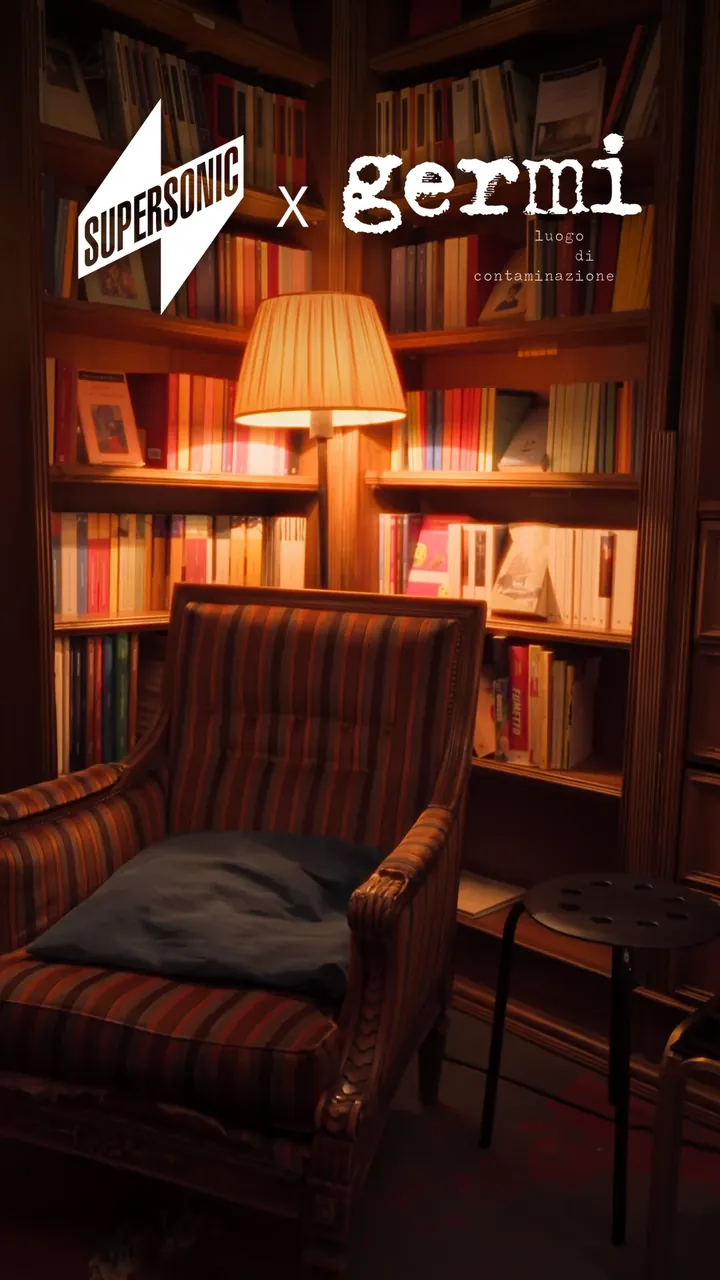
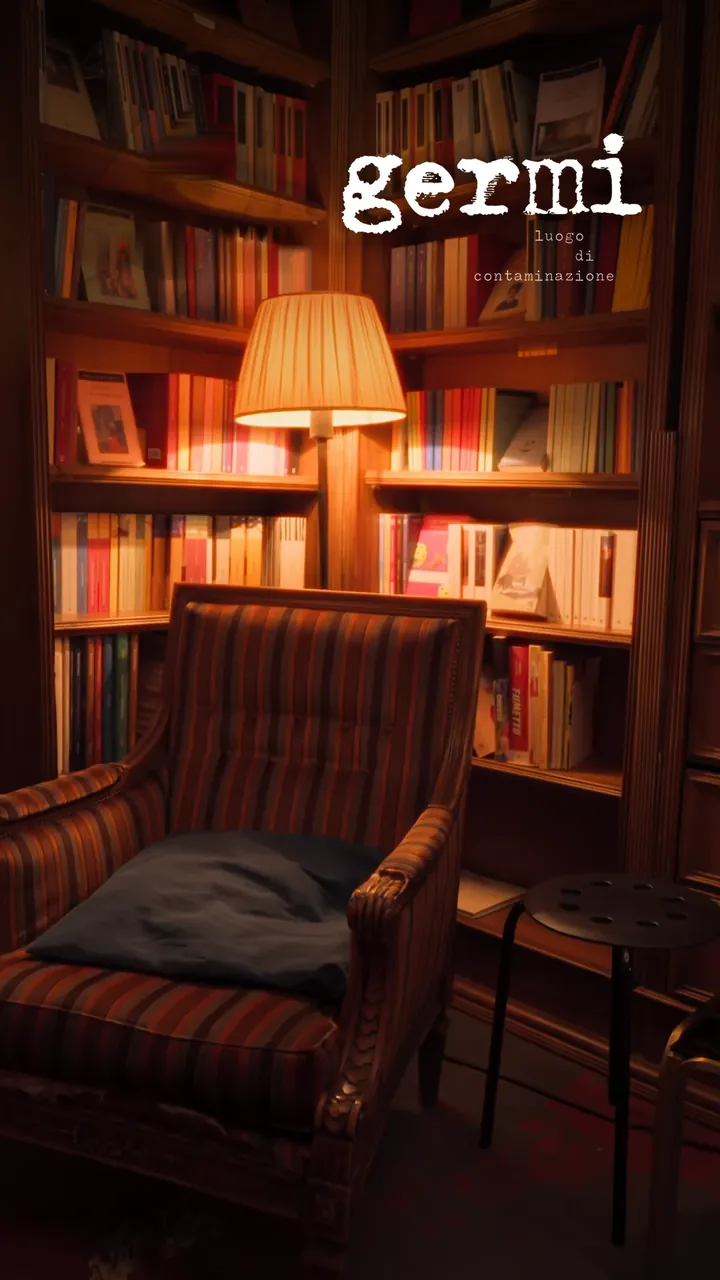
Vertical ADV: rimossi i loghi Spazio Astra e Supersonic (carosello e copertina reel Germi)
Claude-Session: https://claude.ai/code/session_0187QMe9EAv35jYVCJ9P56ox

Changed region(s): [[0.0917, 0.0625, 0.4278, 0.25]]

diff --git a/docs/vertical-adv/index.html b/docs/vertical-adv/index.html
@@ -114,7 +114,7 @@
 
 <section class="vclients" aria-label="Clients">
   <h2 class="label"><span data-l-en>Worked with</span><span data-l-it lang="it">Collaborazioni</span></h2>
-  <div class="marquee"><div class="marquee__track"><img src="../assets/img/logos/spazio-astra.png" alt="Spazio Astra" style="height:69px" decoding="async"><img src="../assets/img/logos/germi.png" alt="Germi — luogo di contaminazione" style="height:58px" decoding="async"><img src="../assets/img/logos/blu-basket-bergamo.png" alt="Blu Basket Bergamo" style="height:41px" decoding="async"><img src="../assets/img/logos/forge-gym.png" alt="FORGE Gym" style="height:48px" decoding="async"><img src="../assets/img/logos/slow-food.png" alt="Slow Food" style="height:58px" decoding="async"><img src="../assets/img/logos/ied.png" alt="IED" style="height:44px" decoding="async"><img src="../assets/img/logos/medici-del-mondo.png" alt="Medici del Mondo" style="height:69px" decoding="async"><img src="../assets/img/logos/masters.png" alt="Masters — House of Icons" style="height:67px" decoding="async"><img src="../assets/img/logos/kings-league.png" alt="Kings League" style="height:69px" decoding="async"><img src="../assets/img/logos/experience-fitness-club.png" alt="Experience Fitness Club" style="height:71px" decoding="async"><img src="../assets/img/logos/looperfest.png" alt="Looperfest" style="height:69px" decoding="async"><img src="../assets/img/logos/consorzio-franciacorta.png" alt="Consorzio Franciacorta" style="height:69px" decoding="async"><span class="marquee__dup" aria-hidden="true"><img src="../assets/img/logos/spazio-astra.png" alt="Spazio Astra" style="height:69px" decoding="async"><img src="../assets/img/logos/germi.png" alt="Germi — luogo di contaminazione" style="height:58px" decoding="async"><img src="../assets/img/logos/blu-basket-bergamo.png" alt="Blu Basket Bergamo" style="height:41px" decoding="async"><img src="../assets/img/logos/forge-gym.png" alt="FORGE Gym" style="height:48px" decoding="async"><img src="../assets/img/logos/slow-food.png" alt="Slow Food" style="height:58px" decoding="async"><img src="../assets/img/logos/ied.png" alt="IED" style="height:44px" decoding="async"><img src="../assets/img/logos/medici-del-mondo.png" alt="Medici del Mondo" style="height:69px" decoding="async"><img src="../assets/img/logos/masters.png" alt="Masters — House of Icons" style="height:67px" decoding="async"><img src="../assets/img/logos/kings-league.png" alt="Kings League" style="height:69px" decoding="async"><img src="../assets/img/logos/experience-fitness-club.png" alt="Experience Fitness Club" style="height:71px" decoding="async"><img src="../assets/img/logos/looperfest.png" alt="Looperfest" style="height:69px" decoding="async"><img src="../assets/img/logos/consorzio-franciacorta.png" alt="Consorzio Franciacorta" style="height:69px" decoding="async"></span></div></div>
+  <div class="marquee"><div class="marquee__track"><img src="../assets/img/logos/germi.png" alt="Germi — luogo di contaminazione" style="height:58px" decoding="async"><img src="../assets/img/logos/blu-basket-bergamo.png" alt="Blu Basket Bergamo" style="height:41px" decoding="async"><img src="../assets/img/logos/forge-gym.png" alt="FORGE Gym" style="height:48px" decoding="async"><img src="../assets/img/logos/slow-food.png" alt="Slow Food" style="height:58px" decoding="async"><img src="../assets/img/logos/ied.png" alt="IED" style="height:44px" decoding="async"><img src="../assets/img/logos/medici-del-mondo.png" alt="Medici del Mondo" style="height:69px" decoding="async"><img src="../assets/img/logos/masters.png" alt="Masters — House of Icons" style="height:67px" decoding="async"><img src="../assets/img/logos/kings-league.png" alt="Kings League" style="height:69px" decoding="async"><img src="../assets/img/logos/experience-fitness-club.png" alt="Experience Fitness Club" style="height:71px" decoding="async"><img src="../assets/img/logos/looperfest.png" alt="Looperfest" style="height:69px" decoding="async"><img src="../assets/img/logos/consorzio-franciacorta.png" alt="Consorzio Franciacorta" style="height:69px" decoding="async"><span class="marquee__dup" aria-hidden="true"><img src="../assets/img/logos/germi.png" alt="Germi — luogo di contaminazione" style="height:58px" decoding="async"><img src="../assets/img/logos/blu-basket-bergamo.png" alt="Blu Basket Bergamo" style="height:41px" decoding="async"><img src="../assets/img/logos/forge-gym.png" alt="FORGE Gym" style="height:48px" decoding="async"><img src="../assets/img/logos/slow-food.png" alt="Slow Food" style="height:58px" decoding="async"><img src="../assets/img/logos/ied.png" alt="IED" style="height:44px" decoding="async"><img src="../assets/img/logos/medici-del-mondo.png" alt="Medici del Mondo" style="height:69px" decoding="async"><img src="../assets/img/logos/masters.png" alt="Masters — House of Icons" style="height:67px" decoding="async"><img src="../assets/img/logos/kings-league.png" alt="Kings League" style="height:69px" decoding="async"><img src="../assets/img/logos/experience-fitness-club.png" alt="Experience Fitness Club" style="height:71px" decoding="async"><img src="../assets/img/logos/looperfest.png" alt="Looperfest" style="height:69px" decoding="async"><img src="../assets/img/logos/consorzio-franciacorta.png" alt="Consorzio Franciacorta" style="height:69px" decoding="async"></span></div></div>
 </section>
 
 <section class="vfeat">
